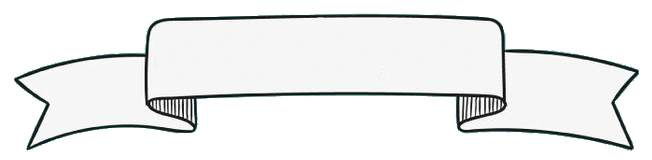
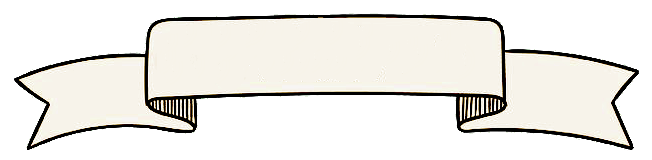
improove ui

Changed region(s): [[0.0, 0.1562, 0.9816, 0.9375], [0.0613, 0.0625, 0.7669, 0.4375]]

diff --git a/common.css b/common.css
@@ -27,10 +27,20 @@ html {
     height: 100%;
 }
 
+body {
+    height: 100%;
+    background-color: #ededed;
+    background-image: url(graphics/table_top_view.jpg);
+    background-repeat: no-repeat;
+    background-size: cover;
+    background-attachment: fixed;
+    padding: 24px;
+    text-align: center;
+}
 
 .site-title {
     padding: 20px;
-    font-family: 'Cabin Sketch';
+    font-family: 'Cabin Sketch', serif;
     font-size: 70px;
     font-weight: bold;
     text-align: center;
@@ -38,10 +48,8 @@ html {
 
     height: 140px;
 
-    background-color: transparent;
-    background-image: url(graphics/Ribbon.png);
-    background-repeat: no-repeat;
-    background-position: center;
+    background: transparent url(graphics/Ribbon.png) no-repeat center;
+    filter: drop-shadow(0px 16px 10px rgba(0,0,0,0.9));
 
     margin-bottom: 24px;
 }
@@ -51,7 +59,9 @@ html {
 .paper-style {
     border: 3px solid #444444;
     border-radius: 255px 15px 225px 15px/15px 225px 15px 255px;
-    box-shadow: 0 3px 6px rgba(0, 0, 0, 0.16), 0 3px 6px rgba(0, 0, 0, 0.23), inset 0 0 20px 2px rgba(0, 0, 0, 0.20);
+    box-shadow: inset 0 0 20px 2px rgba(0, 0, 0, 0.20);
+    filter: drop-shadow(0px 16px 10px rgba(0,0,0,0.9));
+    background-color: #f7f3ea;
 }
 
 .hover-highlight {
@@ -60,6 +70,6 @@ html {
 
 .hover-highlight:hover {
     transition: all 0.5s cubic-bezier(.25, .8, .25, 1);
-    box-shadow: 0 14px 28px rgba(0, 0, 0, 0.35), 0 10px 10px rgba(0, 0, 0, 0.32), inset 0 0 20px 2px rgba(0, 0, 0, 0.20);
+    filter: drop-shadow(0px 26px 15px rgba(0,0,0,0.9));
     transform: scale(1.05);
 }

diff --git a/main.css b/main.css
@@ -1,13 +1,3 @@
-body {
-    height: 100%;
-    background-color: #ededed;
-    background-image: url(graphics/table_top_view.jpg);
-    background-repeat: no-repeat;
-    background-size: cover;
-    background-attachment: fixed;
-    padding: 24px;
-}
-
 .recipe-card {
     position: relative;
     width: 220px;
@@ -15,7 +5,6 @@ body {
     margin: 10px;
     padding: 20px;
     float: left;
-    background-color: #fffdfa;
 }
 
 .recipe-content {
@@ -23,7 +12,7 @@ body {
     width: 100%;
 
     color: #1f1f1f;
-    font-family: 'Cabin Sketch';
+    font-family: 'Cabin Sketch', serif;
     font-size: 12px;
     text-align: center;
 
@@ -42,14 +31,12 @@ body {
     object-fit: cover;
 
     border-radius: 655px 805px 625px 805px/805px 625px 805px 655px;
-    border-style: solid;
-    border-width: 4px;
-    border-color: #404040;
+    border: 4px solid #404040;
 }
 
 .search-tags {
     color: #1f1f1f;
-    font-family: 'Cabin Sketch';
+    font-family: 'Cabin Sketch', serif;
     font-weight: bold;
     height: 70px;
 }
@@ -60,11 +47,10 @@ body {
     line-height: 14px;
     border-radius: 75px 65px 55px 55px/40px 65px 35px 45px;
     margin: 10px;
-    padding: 10px;
-    padding-left: 20px;
-    padding-right: 20px;
+    padding: 10px 20px;
     background-color: #5f5f5f;
     color: #e4e4e4;
+    cursor: pointer;
 }
 
 .search-tag-selected {

diff --git a/recipe.css b/recipe.css
@@ -1,14 +1,3 @@
-body {
-    height: 100%;
-    background-color: #ededed;
-    background-image: url(graphics/table_top_view.jpg);
-    background-repeat: no-repeat;
-    background-size: cover;
-    background-attachment: fixed;
-    padding: 24px;
-    text-align: center;
-}
-
 .site-title {
     font-size: 60px;
     line-height: 50px;
@@ -19,12 +8,10 @@ body {
     width: 800px;
     height: auto;
     min-height: 500px;
-    padding: 30px;
-    background-color: #fffdfa;
+    padding: 35px;
 
     display: block;
-    margin: 0 auto;
-    margin-bottom: 120px;
+    margin: 0 auto 120px;
 }
 
 .recipe-content {
@@ -32,7 +19,7 @@ body {
     width: 100%;
 
     color: #1f1f1f;
-    font-family: 'Cabin Sketch';
+    font-family: 'Cabin Sketch', serif;
     font-size: 16px;
     text-align: left;
 }
@@ -53,10 +40,8 @@ body {
 
     object-fit: cover;
 
+    border: 4px solid #404040;
     border-radius: 655px 805px 625px 805px/805px 625px 805px 655px;
-    border-style: solid;
-    border-width: 4px;
-    border-color: #404040;
 }
 
 .recipe-image-box {

diff --git a/recipe.html b/recipe.html
@@ -67,8 +67,8 @@
 </template>
 
 <!-- content -->
-<div class="site-title"><a href="main.html">Recipe</a></div>
-<div class="recipe recipe-card paper-style hover-highlight"></div>
+<div class="site-title  hover-highlight"><a href="main.html">Recipe</a></div>
+<div class="recipe recipe-card paper-style"></div>
 
 <!-- scripts -->
 <script src="data/cookbook.js"></script>
